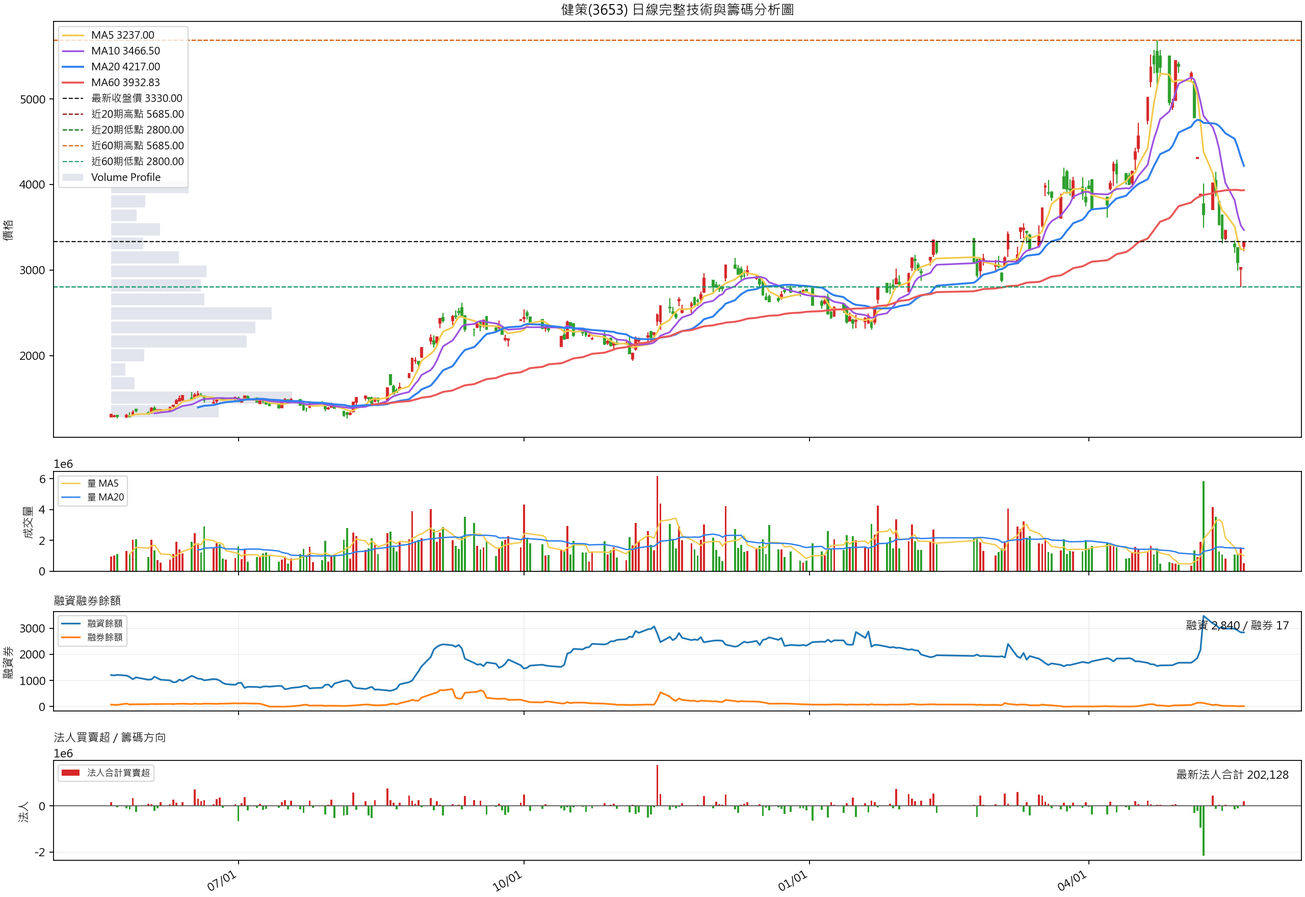
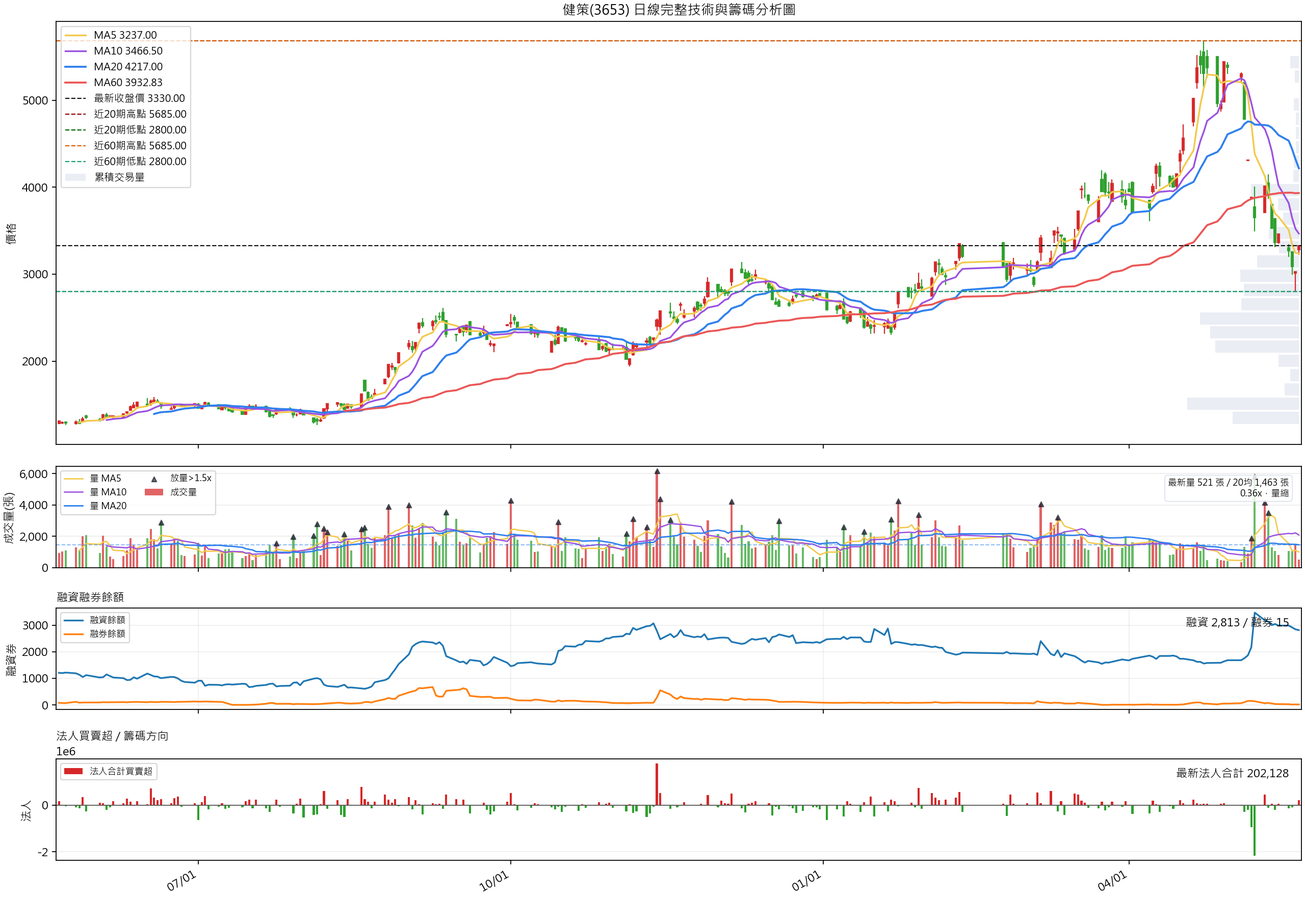
Publish stock report 3653_2026-05-21

diff --git a/3653_2026-05-21/index.html b/3653_2026-05-21/index.html
@@ -43,6 +43,19 @@
       background: #fff;
     }
     .analysis ul { margin: 0; padding-left: 20px; line-height: 1.75; }
+    .detail-panel { padding: 0; overflow: hidden; }
+    details > summary {
+      cursor: pointer;
+      padding: 14px 16px;
+      font-weight: 700;
+      color: #172033;
+      list-style: none;
+    }
+    details > summary::-webkit-details-marker { display: none; }
+    details > summary::after { content: "展開"; float: right; color: #64748b; font-weight: 500; }
+    details[open] > summary::after { content: "收合"; }
+    .detail-body { padding: 0 16px 16px; }
+    .detail-body ul { margin: 0; padding-left: 20px; line-height: 1.75; }
     .summary-grid { display: grid; grid-template-columns: repeat(4, minmax(0, 1fr)); gap: 10px; }
     .summary-card {
       border: 1px solid #dde4ef;
@@ -70,6 +83,8 @@
       .summary-card { min-height: auto; padding: 9px; }
       .summary-card strong { font-size: 13px; }
       .analysis ul { padding-left: 18px; font-size: 13px; }
+      details > summary { padding: 11px 10px; font-size: 14px; }
+      .detail-body { padding: 0 10px 10px; font-size: 13px; }
       .notice { font-size: 13px; }
     }
   </style>
@@ -77,19 +92,21 @@
 <body>
   <header>
     <h1>健策(3653) 台股技術分析報告</h1>
-    <div>產生時間：2026-05-21T18:44:28+08:00</div>
+    <div>產生時間：2026-05-21T23:09:24+08:00</div>
   </header>
   <main>
     
     <section class="panel conclusion">
       <h2>結論摘要</h2>
-      <div class="summary-grid"><div class="summary-card"><span>整體方向</span><strong>中性偏弱；收盤低於 MA20, 收盤低於 MA60, MA20 高於 MA60</strong></div>
+      <div class="summary-grid"><div class="summary-card"><span>整體方向</span><strong>中性偏弱；收盤站上 MA5, MA5 低於 MA10, 跌破 MA10 且投信偏賣</strong></div>
 <div class="summary-card"><span>明日偏向</span><strong>區間震盪</strong></div>
 <div class="summary-card"><span>一個月情境</span><strong>高波動區間震盪</strong></div>
 <div class="summary-card"><span>支撐</span><strong>2800.00 / 2800.00</strong></div>
 <div class="summary-card"><span>壓力</span><strong>5685.00</strong></div>
+<div class="summary-card"><span>ATR 波動</span><strong>ATR14 338.21，常態區間 2991.79～3668.21</strong></div>
 <div class="summary-card"><span>權證籌碼</span><strong>認購成交占 90.16%，近價外認購 0 檔，前五大成交占 52.80%</strong></div>
-<div class="summary-card"><span>權證白話</span><strong>認購很熱，但深價外比重偏高，偏投機，現股不續強時權證容易快速降溫</strong></div>
+<div class="summary-card"><span>權證看股價</span><strong>現股距認購主流履約價仍有 33.73% 空間，屬高想像但投機風險也高</strong></div>
+<div class="summary-card"><span>權證白話</span><strong>權證人氣偏多但偏投機，只能輔助現股判斷；現股不續強時權證容易快速降溫</strong></div>
 <div class="summary-card"><span>最大風險</span><strong>跌破支撐且量能放大，短線結構轉弱</strong></div></div>
     </section>
     
@@ -106,23 +123,109 @@
 <tr><th>權證資料</th><td>47 檔，認購 40 / 認售 7</td></tr>
 <tr><th>基本面資料</th><td>月營收與估值資料已取得</td></tr></table>
     </section>
-    <section class="panel analysis"><h2>零、整體評語 / 技術分析概念 / 明日走向</h2><ul><li>整體評語：目前整體評級為「中性偏弱」（分數 -2）。日線 偏多、周線 偏空、月線 偏空，三個週期若同向，訊號可信度較高；若互相矛盾，應以區間與量能確認為主。</li><li>技術分析概念：本報告以趨勢、位置、量能三個面向判讀。趨勢看均線排列（MA5 3237.00, MA10 3466.50, MA20 4217.00, MA60 3932.83），位置看近 20 / 60 日高低點，量能看今日成交量 521,459 是否高於近 20 日均量 1,462,584。</li><li>目前結構：價格低於主要均線，趨勢結構偏弱，反彈前需先觀察止跌量價。收盤位於近 20 日區間約 18% 位置，仍需觀察是否能脫離區間。量能低於近 20 日均量，代表市場仍偏觀望，突破或跌破訊號需等補量確認。</li><li>明日走向推估：基於 日漲跌為正, 收盤站上 MA5, 收盤跌破 MA20，明日初步以「偏多震盪」看待；若開高並站穩 5685.00，有機會延續挑戰上方壓力；若開低或跌破 2800.00，短線需先防守轉弱。</li><li>觀察價位：短線支撐優先看 4217.00，壓力優先看 5685.00；明日若量能放大且收盤方向明確，會比盤中瞬間突破或跌破更具參考性。</li></ul></section>
-<section class="panel analysis"><h2>一、圖表重點解讀</h2><ul><li>整體評分為「中性偏弱」（分數 -2），主要依據：收盤低於 MA20、收盤低於 MA60、MA20 高於 MA60、量能偏低。</li><li>資料最後交易日為 2026-05-21，最新收盤價 3330.00，單日漲跌幅 9.90%；一年區間 1265.00～5685.00，一年報酬 154.20%。</li><li>趨勢判讀：價格與 20 日、60 日均線交錯，趨勢仍偏整理。 目前 收盤價位於區間低檔，較接近支撐區。</li><li>短線風險 / 空間：距近 20 日低點約 18.93%，距近 20 日高點約 70.72%；量能為近 20 日均量 0.36 倍。</li><li>同族群相對表現：健策(3653) 期間報酬 154.20%，排名第 2/7；領先者為 奇鋐(3017) 303.07%。</li><li>操作解讀上，若價格突破壓力且量能續增，偏多情境較有延續性；若跌破短線支撐且放量，需優先控管風險。</li></ul></section>
-<section class="panel analysis"><h2>二、日線 / 周線 / 月線趨勢</h2><ul><li>日線：MA20=4217.00、MA60=3932.83；收盤價相對 20 日均線 偏弱或整理。</li><li>MA20下彎，近似變化 -9.21%。</li><li>MA60走平，近似變化 0.22%。</li><li>周線：最新周收 3330.00，較前一周 -3.90%。</li><li>月線：最新月收 3330.00，較前一月 -38.10%。</li></ul></section>
-<section class="panel analysis"><h2>三、支撐與壓力</h2><ul><li>短線支撐觀察近 20 日低點 2800.00，中線支撐觀察近 60 日低點 2800.00。</li><li>短線壓力觀察近 20 日高點 5685.00，中線壓力觀察近 60 日高點 5685.00。</li><li>若收盤有效突破 5685.00，短線結構轉強；若跌破 2800.00，短線需防守轉弱。</li></ul></section>
-<section class="panel analysis"><h2>四、量價結構</h2><ul><li>最新成交量 521,459，近 20 日均量 1,462,584，近 60 日均量 1,625,426。</li><li>最新量能約為近 20 日均量的 0.36 倍，近 20 日上漲日 5 天、下跌日 14 天。</li><li>Volume Profile 可觀察過去一年成交量較集中的價格帶，作為籌碼密集區參考。</li></ul></section>
-<section class="panel analysis"><h2>五、融資融券與法人 / 籌碼成本</h2><ul><li>融資融券資料期間 2025-05-21 to 2026-05-20，筆數 243。</li><li>融資餘額目前 2,840，變化 1,220（75.31%）。</li><li>近 5 日融資餘額目前 2,840，變化 -159（-5.30%）。</li><li>融券餘額目前 17，變化 -75（-81.52%）。</li><li>融資融券只能用來觀察槓桿籌碼變化，不等同真實散戶或主力成本。</li><li>法人資料期間 2025-05-21 to 2026-05-21，原始筆數 1220。</li><li>最新一日法人合計買賣超 202,128，近 5 日合計 15,011，近 20 日合計 -3,208,413。</li><li>最新一日分項：外資 164,647、投信 -3,000、自營商自行 -13,369、自營商避險 53,850、外資自營商 0。</li><li>法人買賣超可作籌碼方向輔助，但不代表完整持股成本；成本仍需搭配成交量密集區與價格區間估算。</li></ul></section>
-<section class="panel analysis"><h2>六、權證與市場情緒</h2><ul><li>權證資料期間 / 出表日：TWSE report_date=1150520。</li><li>本次匹配權證 47 檔；認購 40 檔、認售 7 檔，認購/認售檔數比 5.71。</li><li>履約價分布 900.00～5120.00，中位數 3916.88；標的最新收盤 3330.00。</li><li>價內 / 近價外結構：認購價內 15 檔、認購 10% 內價外 0 檔；認售價內 0 檔、認售 10% 內價外 1 檔。</li><li>成交金額合計 4,974,870，其中認購 4,485,400（90.16%）、認售 489,470（9.84%）；認購成交較集中，前 5 大成交占比 52.80%。</li><li>權證名詞說明：價內代表履約價已對買方有利，通常較接近現股價格變動；近價外代表履約價離現股不遠，若現股再往有利方向走，權證敏感度容易提高；深價外代表履約價離現股很遠，價格便宜但成功機率較低，時間價值流失也更快。</li><li>履約價熱區：認購成交加權履約價約 4453.36，較現股高約 33.73%；認售成交加權履約價約 2653.76，現股較其高約 25.48%。認購成交中，近價外 10% 內占 0.00%，深價外認購占 95.19%。</li><li>權證籌碼細節：近價外認購成交金額 0，深價外認購成交金額 4,269,710，近價外認售成交金額 338,200，深價外認售成交金額 151,270。若深價外認購占比過高，代表市場有強烈進攻想像，但也表示追價與時間價值流失風險同步升高。</li><li>資金集中度：前 5 大權證成交占 52.80%。若集中度偏高，代表短線資金集中在少數券商 / 履約價區間，隔日若現股不續強，權證價格容易快速降溫。</li><li>市場情緒判讀：權證交易偏多，但資金有一部分集中在深價外認購，投機性較高，對現股方向的確認力要打折。</li><li>白話解讀：很多人買認購，但不少資金買得比較遠，代表想賺快錢的味道較重，現股沒有繼續漲時權證容易退很快。簡單說，權證籌碼是拿來看短線交易熱度與投機方向，不是用來保證股價一定會照著走。</li><li>未來一個月推估：以現股技術面、量能與權證資金結構綜合看，初步情境為「高波動區間震盪」。目前量能約為 20 日均量 0.36 倍；若價格維持在 MA20 / MA60 之上且認購成交比重不明顯降溫，權證市場偏向支持上攻或高檔震盪。</li><li>一個月觀察區間：上方先看 5685.00，再看近 60 日高點 5685.00；下方先看 4217.00，再看近 20 日低點 2800.00。突破近 20 日高點 5685.00 可視為偏多確認；跌破近 20 日低點 2800.00 則偏多情境失效；MA20 4217.00 是短中線強弱分界。</li><li>權證操作提醒：若買認購，優先關注接近現股、成交量穩定、到期日不過近的標的；深價外權證即使價格便宜，也容易因時間價值流失而快速歸零。若現股跌破支撐，權證部位應比現股更快控管風險。</li></ul></section>
-<section class="panel analysis"><h2>七、同族群比較</h2><ul><li>比較依據：主題規則：散熱與熱管理</li><li>比較清單：健策(3653)、奇鋐(3017)、雙鴻(3324)、建準(2421)、力致(3483)、尼得科超眾(6230)、泰碩(3338)</li><li>同期間相對報酬排序：奇鋐(3017) 303.07%、健策(3653) 154.20%、雙鴻(3324) 73.91%、建準(2421) 46.15%、泰碩(3338) 35.57%、尼得科超眾(6230) -3.94%</li><li>此圖標示為同產業候選比較，不等同精準子產業或主題族群。</li></ul></section>
-<section class="panel analysis"><h2>七之一、每日 ETF 持股該股增減名單</h2><ul><li>ETF 持股最新快照：2026-05-21。</li><li>目前解析到 34 檔 ETF 持有此股，其中主動式候選 13 檔，已檢查 13 檔最近一次持股異動。</li><li>最新異動命中 1 檔：加碼 / 新增 0 檔，減碼 / 刪除 1 檔。</li><li>名單：00980A 主動野村臺灣優選：減碼 -28 張。</li><li>此資料為 ETF資訊網依公開持股快照差異推估，非基金公司實際成交紀錄；一般被動 ETF 多僅列持有快照，不強行推估每日買賣。</li></ul></section>
-<section class="panel analysis"><h2>八、基本面 EPS / 月營收</h2><ul><li>基本面資料期間：revenue 2023-12-01 to 2026-05-01; PER/PBR 2025-05-21 to 2026-05-21。</li><li>最新月營收 2026-04 為 23.11 億元，MoM 6.82%，YoY 26.92%。</li><li>近 3 個月營收 57.43 億元，較前 3 個月 5.49%。</li><li>最新估值：PER 92.12、PBR 23.07、殖利率 0.66%，以收盤價/PER 推估 EPS 約 36.15。</li></ul></section>
-<section class="panel analysis"><h2>九、短線與中線情境</h2><ul><li>短線若站穩 5685.00，可視為挑戰近 20 日壓力；若跌破 2800.00，需留意轉弱。</li><li>中線若守住 2800.00，區間結構仍相對完整；若跌破，需重新評估趨勢。</li><li>若價格持續位於 MA20 與 MA60 之上且量能維持大於均量，偏多情境可信度提高；反之若跌破均線且量增，需防守風險。</li></ul></section>
-<section class="panel analysis"><h2>十、主力名單及主力 / 散戶分佈限制</h2><ul><li>不得宣稱可取得完整自然人大戶名單。</li><li>券商分點、法人與融資融券僅能作為主力 / 大戶疑似結構輔助，不等同真實大戶。</li></ul></section>
-<section class="panel analysis"><h2>十一、產圖完成檢查表</h2><ul><li>OHLCV 已轉入 Python 並產生日線、周線、月線 PNG 圖表。</li><li>有效交易日數 244，實際期間 2025-05-21 至 2026-05-21。</li><li>01～03 為真實 K 線圖；04～06 為狀態圖並列出資料限制。</li></ul></section>
+    <section class="panel analysis"><h2>零、整體評語 / 技術分析概念 / 明日走向</h2><ul><li>整體評語：目前整體評級為「中性偏弱」（分數 -2）。日線 偏多、周線 偏空、月線 偏空，三個週期若同向，訊號可信度較高；若互相矛盾，應以區間與量能確認為主。</li><li>技術分析概念：本報告以趨勢、位置、量能三個面向判讀。趨勢看均線排列（MA5 3237.00, MA10 3466.50, MA20 4217.00, MA60 3932.83），位置看近 20 / 60 日高低點，量能看今日成交量 521,459 是否高於近 20 日均量 1,462,584。</li><li>目前結構：價格低於主要均線，趨勢結構偏弱，反彈前需先觀察止跌量價。收盤位於近 20 日區間約 18% 位置，仍需觀察是否能脫離區間。量能低於近 20 日均量，代表市場仍偏觀望，突破或跌破訊號需等補量確認。</li><li>MA5 短線判斷：收盤站上 MA5，短線仍有撐盤力道。</li><li>MA10 / 投信支撐：收盤價跌破 MA10（3466.50），投信近 5 日買賣超 -169,053、近 10 日 -2,028,557，價格與投信籌碼同步偏弱，MA10 轉為短線反壓。</li><li>明日走向推估：基於 日漲跌為正, 收盤站上 MA5, 收盤跌破 MA10, 收盤跌破 MA20，明日初步以「區間震盪」看待；若開高並站穩 5685.00，有機會延續挑戰上方壓力；若開低或跌破 2800.00，短線需先防守轉弱。</li><li>觀察價位：短線支撐優先看 4217.00，壓力優先看 5685.00；明日若量能放大且收盤方向明確，會比盤中瞬間突破或跌破更具參考性。</li></ul></section>
+<section class="panel analysis"><h2>一、圖表重點解讀</h2><ul><li>整體評分為「中性偏弱」（分數 -2），主要依據：收盤站上 MA5、MA5 低於 MA10、收盤低於 MA20、收盤低於 MA60、MA20 高於 MA60、量能偏低。</li><li>資料最後交易日為 2026-05-21，最新收盤價 3330.00，單日漲跌幅 9.90%；一年區間 1265.00～5685.00，一年報酬 154.20%。</li><li>趨勢判讀：價格與 20 日、60 日均線交錯，趨勢仍偏整理。 目前 收盤價位於區間低檔，較接近支撐區。</li><li>短線均線判斷：收盤跌破 MA10=3466.50，短線支撐轉弱，MA5=3237.00 與 MA10 可能成為反壓。收盤價跌破 MA10（3466.50），投信近 5 日買賣超 -169,053、近 10 日 -2,028,557，價格與投信籌碼同步偏弱，MA10 轉為短線反壓。</li><li>短線風險 / 空間：距近 20 日低點約 18.93%，距近 20 日高點約 70.72%；量能為近 20 日均量 0.36 倍。</li><li>同族群相對表現：健策(3653) 期間報酬 154.20%，排名第 2/7；領先者為 奇鋐(3017) 303.07%。</li><li>操作解讀上，若價格突破壓力且量能續增，偏多情境較有延續性；若跌破短線支撐且放量，需優先控管風險。</li></ul></section>
+<section class="panel analysis"><h2>二、日週月趨勢與支撐壓力</h2><ul><li>日線短線：MA5=3237.00、MA10=3466.50；收盤跌破 MA10=3466.50，短線支撐轉弱，MA5=3237.00 與 MA10 可能成為反壓。</li><li>MA5下彎，近似變化 -7.78%。</li><li>MA10下彎，近似變化 -17.70%。</li><li>MA10 / 投信支撐：收盤價跌破 MA10（3466.50），投信近 5 日買賣超 -169,053、近 10 日 -2,028,557，價格與投信籌碼同步偏弱，MA10 轉為短線反壓。</li><li>日線中線：MA20=4217.00、MA60=3932.83；收盤價相對 20 日均線 偏弱或整理。</li><li>MA20下彎，近似變化 -9.21%。</li><li>MA60走平，近似變化 0.22%。</li><li>周線：最新周收 3330.00，較前一周 -3.90%。</li><li>月線：最新月收 3330.00，較前一月 -38.10%。</li><li>5 日支撐：觀察 MA5 3237.00 與近 5 日低點 2800.00；若收盤守住 MA5，代表超短線買盤仍有撐盤，跌破則需看 MA10 是否接手。</li><li>10 日支撐：觀察 MA10 3466.50 與近 10 日低點 2800.00；收盤價跌破 MA10（3466.50），投信近 5 日買賣超 -169,053、近 10 日 -2,028,557，價格與投信籌碼同步偏弱，MA10 轉為短線反壓。</li><li>20 日支撐：觀察 MA20 4217.00 與近 20 日低點 2800.00；若跌破 MA20 且量增，短線整理容易擴大。</li><li>中線支撐觀察近 60 日低點 2800.00。</li><li>短線壓力觀察近 20 日高點 5685.00，中線壓力觀察近 60 日高點 5685.00。</li><li>若收盤有效突破 5685.00，短線結構轉強；若跌破 2800.00，短線需防守轉弱。</li></ul></section>
+<section class="panel analysis"><h2>九、短線 / 中線與進出場情境</h2><ul><li>明日短線先看 MA5 3237.00 與 MA10 3466.50：站穩 MA5 且投信近 5 / 10 日維持買超，偏多延續性較高；跌破 MA10 且投信轉賣，短線需先防守。</li><li>短線若站穩 5685.00，可視為挑戰近 20 日壓力；若跌破 2800.00，需留意轉弱。</li><li>中線若守住 2800.00，區間結構仍相對完整；若跌破，需重新評估趨勢。</li><li>若價格持續位於 MA20 與 MA60 之上且量能維持大於均量，偏多情境可信度提高；反之若跌破均線且量增，需防守風險。</li><li>突破追價情境：若收盤有效突破近 20 日高點 5685.00，且量能高於 20 日均量，偏向趨勢延伸；失效點觀察是否跌回 MA5 3237.00 下方。</li><li>拉回承接情境：若回測 MA10 / MA20 區間約 3466.50～4217.00 並量縮守住，代表拉回較像整理；若投信同步買超，支撐可信度提高。</li><li>跌破停損情境：若放量跌破 2800.00 或近 20 日低點 2800.00，短線結構轉弱，應優先降低偏多情境權重。</li><li>波動提醒：ATR14 約 338.21；若盤中波動超過 1 倍 ATR 且收盤未收回關鍵均線，代表風險升高。</li></ul></section>
 <section class="panel analysis"><h2>十二、風險提醒</h2><ul><li>本分析不構成投資建議；技術分析、籌碼估算、權證、同族群、基本面與未來情境推估皆可能失準。</li><li>權證屬高槓桿商品，可能快速損失；預測不代表價格保證。</li></ul></section>
     
+        <section class="panel chart-panel">
+          <h2>01_日線完整技術與籌碼分析圖</h2>
+          <img src="01_日線完整技術與籌碼分析圖.png?v=2026-05-21T23:09:24+08:00" alt="01_日線完整技術與籌碼分析圖">
+        </section>
+        
+
+        <section class="panel chart-panel">
+          <h2>02_周線完整技術與趨勢分析圖</h2>
+          <img src="02_周線完整技術與趨勢分析圖.png?v=2026-05-21T23:09:24+08:00" alt="02_周線完整技術與趨勢分析圖">
+        </section>
+        
+
+        <section class="panel chart-panel">
+          <h2>03_月線完整技術與長期趨勢分析圖</h2>
+          <img src="03_月線完整技術與長期趨勢分析圖.png?v=2026-05-21T23:09:24+08:00" alt="03_月線完整技術與長期趨勢分析圖">
+        </section>
+        
+
+        <section class="panel chart-panel">
+          <h2>04_權證完整分析圖</h2>
+          <img src="04_權證完整分析圖.png?v=2026-05-21T23:09:24+08:00" alt="04_權證完整分析圖">
+        </section>
+        
+
+        <section class="panel chart-panel">
+          <h2>05_同族群比較分析圖</h2>
+          <img src="05_同族群比較分析圖.png?v=2026-05-21T23:09:24+08:00" alt="05_同族群比較分析圖">
+        </section>
+        
+
+        <section class="panel chart-panel">
+          <h2>06_基本面分析圖</h2>
+          <img src="06_基本面分析圖.png?v=2026-05-21T23:09:24+08:00" alt="06_基本面分析圖">
+        </section>
+        
     <section class="panel">
-      <h2>每日 ETF 持股該股增減名單</h2>
+      <h2>進階分析與資料明細</h2>
+      <p class="notice">以下內容預設收合，保留完整分析與資料檢查，需要時再展開查看。</p>
+    </section>
+    
+    <details class="panel detail-panel">
+      <summary>四、量價結構</summary>
+      <div class="detail-body"><ul><li>最新成交量 521,459，近 20 日均量 1,462,584，近 60 日均量 1,625,426。</li><li>最新量能約為近 20 日均量的 0.36 倍，近 20 日上漲日 5 天、下跌日 14 天。</li><li>累積交易量分布可觀察過去一年成交量較集中的價格帶，作為籌碼密集區參考。</li></ul></div>
+    </details>
+    
+
+    <details class="panel detail-panel">
+      <summary>四之二、乖離率與 ATR 波動區間</summary>
+      <div class="detail-body"><ul><li>MA5 乖離 2.87%：乖離接近中性</li><li>MA10 乖離 -3.94%：小幅負乖離，短線仍偏弱</li><li>MA20 乖離 -21.03%：負乖離偏大，弱勢但也可能出現技術反彈</li><li>MA60 乖離 -15.33%：負乖離偏大，弱勢但也可能出現技術反彈</li><li>ATR14 約 338.21，以最新收盤估算，明日常態波動參考區間約 2991.79～3668.21；若開盤跳空或爆量，區間需重新評估。</li></ul></div>
+    </details>
+    
+
+    <details class="panel detail-panel">
+      <summary>五、融資融券與法人 / 籌碼成本</summary>
+      <div class="detail-body"><ul><li>融資融券資料期間 2025-05-21 to 2026-05-21，筆數 244。</li><li>融資餘額目前 2,813，變化 1,195（73.86%）。</li><li>近 5 日融資餘額目前 2,813，變化 -230（-7.56%）。</li><li>融券餘額目前 15，變化 -74（-83.15%）。</li><li>融資融券只能用來觀察槓桿籌碼變化，不等同真實散戶或主力成本。</li><li>法人資料期間 2025-05-21 to 2026-05-21，原始筆數 1220。</li><li>最新一日法人合計買賣超 202,128，近 5 日合計 15,011，近 20 日合計 -3,208,413。</li><li>最新一日分項：外資 164,647、投信 -3,000、自營商自行 -13,369、自營商避險 53,850、外資自營商 0。</li><li>法人買賣超可作籌碼方向輔助，但不代表完整持股成本；成本仍需搭配成交量密集區與價格區間估算。</li></ul></div>
+    </details>
+    
+
+    <details class="panel detail-panel">
+      <summary>六、權證與市場情緒</summary>
+      <div class="detail-body"><ul><li>權證定位：以下只作為現股技術面與短線情緒的輔助判斷；現股漲跌仍以 K 線趨勢、支撐壓力、量能與法人 / 融資融券為主。</li><li>權證資料期間 / 出表日：TWSE report_date=1150520。</li><li>本次匹配權證 47 檔；認購 40 檔、認售 7 檔，認購/認售檔數比 5.71。</li><li>履約價分布 900.00～5120.00，中位數 3916.88；標的最新收盤 3330.00。</li><li>價內 / 近價外結構：認購價內 15 檔、認購 10% 內價外 0 檔；認售價內 0 檔、認售 10% 內價外 1 檔。</li><li>成交金額合計 4,974,870，其中認購 4,485,400（90.16%）、認售 489,470（9.84%）；認購成交較集中，前 5 大成交占比 52.80%。</li><li>權證名詞說明：價內代表履約價已對買方有利，通常較接近現股價格變動；近價外代表履約價離現股不遠，若現股再往有利方向走，權證敏感度容易提高；深價外代表履約價離現股很遠，價格便宜但成功機率較低，時間價值流失也更快。</li><li>履約價熱區：認購成交加權履約價約 4453.36，較現股高約 33.73%；認售成交加權履約價約 2653.76，現股較其高約 25.48%。認購成交中，近價外 10% 內占 0.00%，深價外認購占 95.19%。</li><li>以權證角度看目前股價：目前股價 3330.00 距離認購成交加權履約價 4453.36 還有 33.73% 空間，代表權證市場仍在押較大的上攻想像；但若現股沒有快速補漲，深價外認購的時間價值壓力會增加。</li><li>權證籌碼分型：本次屬於「偏多但投機」。近價外認購成交金額 0，深價外認購成交金額 4,269,710，近價外認售成交金額 338,200，深價外認售成交金額 151,270。深價外認購比重偏高，代表市場想像空間大，但也表示若現股漲幅不夠快，時間價值會明顯消耗。</li><li>資金集中度：前 5 大權證成交占 52.80%。成交集中度偏高，短線情緒可能由少數熱門權證帶動，容易放大波動。</li><li>輔助結論：認購成交很熱，但深價外認購占比較高，表示市場有追逐大波動的投機資金。它可以反映人氣升溫，但對現股漲跌的確認力低於近價外認購。</li><li>白話解讀：很多人在買認購，可是有不少買得很遠，這比較像押快速大漲；如果現股沒有繼續強，這些權證容易先降溫。簡單說，權證是在看市場有沒有跟著股票一起熱起來；它可以加分或扣分，但不能單獨決定股價方向。</li><li>未來一個月輔助推估：現股技術面初步為「高波動區間震盪」，權證籌碼只作為輔助。若價格維持在 MA20 / MA60 之上、量能不縮，且認購成交沒有明顯退潮，偏多情境較容易延續；若現股跌破支撐，即使認購仍熱，也要先降低權證訊號權重。</li><li>一個月觀察區間：上方先看 5685.00，再看近 60 日高點 5685.00；下方先看 4217.00，再看近 20 日低點 2800.00。突破近 20 日高點 5685.00 可視為偏多確認；跌破近 20 日低點 2800.00 則偏多情境失效；MA20 4217.00 是短中線強弱分界。</li><li>權證操作提醒：若買認購，優先關注接近現股、成交量穩定、到期日不過近的標的；深價外權證即使價格便宜，也容易因時間價值流失而快速歸零。若現股跌破支撐，權證部位應比現股更快控管風險。</li></ul></div>
+    </details>
+    
+
+    <details class="panel detail-panel">
+      <summary>七、同族群比較</summary>
+      <div class="detail-body"><ul><li>比較依據：主題規則：散熱與熱管理</li><li>比較清單：健策(3653)、奇鋐(3017)、雙鴻(3324)、建準(2421)、力致(3483)、尼得科超眾(6230)、泰碩(3338)</li><li>同期間相對報酬排序：奇鋐(3017) 303.07%、健策(3653) 154.20%、雙鴻(3324) 73.91%、建準(2421) 46.15%、泰碩(3338) 35.57%、尼得科超眾(6230) -3.94%</li><li>此圖標示為同產業候選比較，不等同精準子產業或主題族群。</li></ul></div>
+    </details>
+    
+
+    <details class="panel detail-panel">
+      <summary>七之一、每日 ETF 持股該股增減名單</summary>
+      <div class="detail-body"><ul><li>ETF 持股最新快照：2026-05-21。</li><li>目前解析到 34 檔 ETF 持有此股，其中主動式候選 13 檔，已檢查 13 檔最近一次持股異動。</li><li>最新異動命中 1 檔：加碼 / 新增 0 檔，減碼 / 刪除 1 檔。</li><li>名單：00980A 主動野村臺灣優選：減碼 -28 張。</li><li>此資料為 ETF資訊網依公開持股快照差異推估，非基金公司實際成交紀錄；一般被動 ETF 多僅列持有快照，不強行推估每日買賣。</li></ul></div>
+    </details>
+    
+
+    <details class="panel detail-panel">
+      <summary>八、基本面 EPS / 月營收</summary>
+      <div class="detail-body"><ul><li>基本面資料期間：revenue 2023-12-01 to 2026-05-01; PER/PBR 2025-05-21 to 2026-05-21。</li><li>最新月營收 2026-04 為 23.11 億元，MoM 6.82%，YoY 26.92%。</li><li>近 3 個月營收 57.43 億元，較前 3 個月 5.49%。</li><li>最新估值：PER 92.12、PBR 23.07、殖利率 0.66%，以收盤價/PER 推估 EPS 約 36.15。</li></ul></div>
+    </details>
+    
+
+    <details class="panel detail-panel">
+      <summary>十、主力名單及主力 / 散戶分佈限制</summary>
+      <div class="detail-body"><ul><li>不得宣稱可取得完整自然人大戶名單。</li><li>券商分點、法人與融資融券僅能作為主力 / 大戶疑似結構輔助，不等同真實大戶。</li></ul></div>
+    </details>
+    
+
+    <details class="panel detail-panel">
+      <summary>十一、產圖完成檢查表</summary>
+      <div class="detail-body"><ul><li>OHLCV 已轉入 Python 並產生日線、周線、月線 PNG 圖表。</li><li>有效交易日數 244，實際期間 2025-05-21 至 2026-05-21。</li><li>01～03 為真實 K 線圖；04～06 為狀態圖並列出資料限制。</li></ul></div>
+    </details>
+    
+
+    <details class="panel detail-panel">
+      <summary>每日 ETF 持股該股增減名單表格</summary>
+      <div class="detail-body">
       <div class="table-scroll">
         <table>
           <thead>
@@ -138,11 +241,13 @@
           <tbody><tr><td>00980A</td><td>主動野村臺灣優選</td><td>減碼</td><td class="cell-number">-28</td><td>2026-05-20 → 2026-05-21・張數最小 1 張、金額以最新收盤價估算</td><td>3653 健策精密工業 -28 張 -9,324 萬 減碼</td></tr></tbody>
         </table>
       </div>
-    </section>
+    </div>
+    </details>
     
-    
-    <section class="panel">
-      <h2>權證成交金額前 5 名</h2>
+
+    <details class="panel detail-panel">
+      <summary>權證成交金額前 5 名表格</summary>
+      <div class="detail-body">
       <div class="table-scroll">
         <table>
           <thead>
@@ -162,44 +267,9 @@
 <tr><td>08614U</td><td>健策國票5A售08</td><td>認售</td><td class="cell-number">3,000.00</td><td class="cell-number">338,200</td><td class="cell-number">168,000</td></tr></tbody>
         </table>
       </div>
-    </section>
+    </div>
+    </details>
     
-    
-        <section class="panel chart-panel">
-          <h2>01_日線完整技術與籌碼分析圖</h2>
-          <img src="01_日線完整技術與籌碼分析圖.png?v=2026-05-21T18:44:28+08:00" alt="01_日線完整技術與籌碼分析圖">
-        </section>
-        
-
-        <section class="panel chart-panel">
-          <h2>02_周線完整技術與趨勢分析圖</h2>
-          <img src="02_周線完整技術與趨勢分析圖.png?v=2026-05-21T18:44:28+08:00" alt="02_周線完整技術與趨勢分析圖">
-        </section>
-        
-
-        <section class="panel chart-panel">
-          <h2>03_月線完整技術與長期趨勢分析圖</h2>
-          <img src="03_月線完整技術與長期趨勢分析圖.png?v=2026-05-21T18:44:28+08:00" alt="03_月線完整技術與長期趨勢分析圖">
-        </section>
-        
-
-        <section class="panel chart-panel">
-          <h2>04_權證完整分析圖</h2>
-          <img src="04_權證完整分析圖.png?v=2026-05-21T18:44:28+08:00" alt="04_權證完整分析圖">
-        </section>
-        
-
-        <section class="panel chart-panel">
-          <h2>05_同族群比較分析圖</h2>
-          <img src="05_同族群比較分析圖.png?v=2026-05-21T18:44:28+08:00" alt="05_同族群比較分析圖">
-        </section>
-        
-
-        <section class="panel chart-panel">
-          <h2>06_基本面分析圖</h2>
-          <img src="06_基本面分析圖.png?v=2026-05-21T18:44:28+08:00" alt="06_基本面分析圖">
-        </section>
-        
     <section class="panel notice">
       <strong>風險提醒：</strong>
       本分析不構成投資建議；技術分析、籌碼估算、權證、同族群、基本面與未來情境推估皆可能失準；
